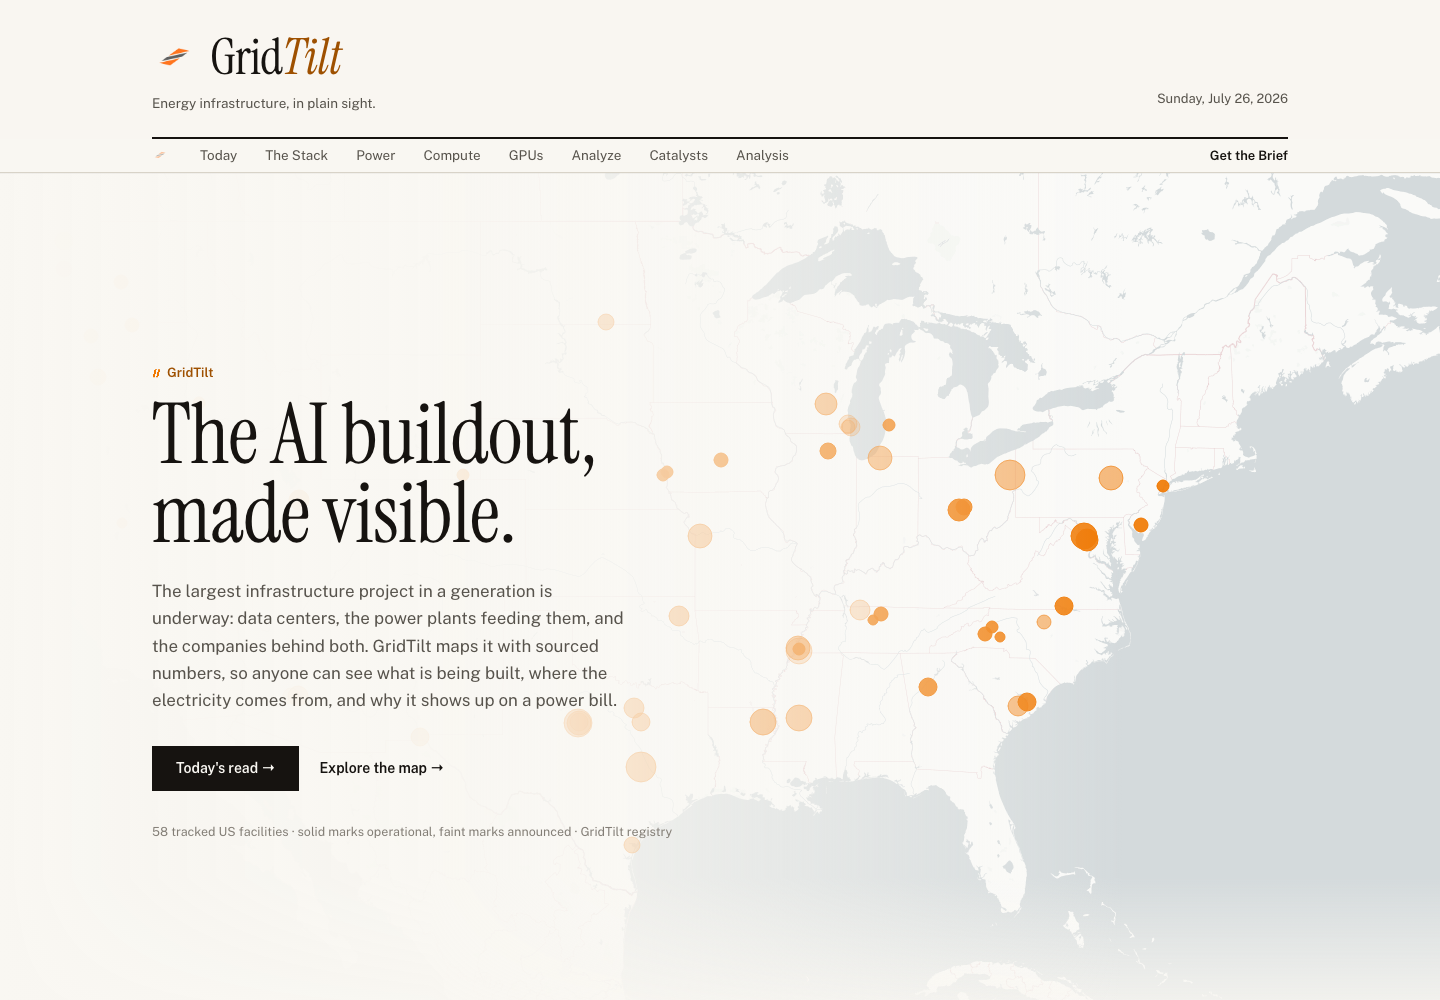
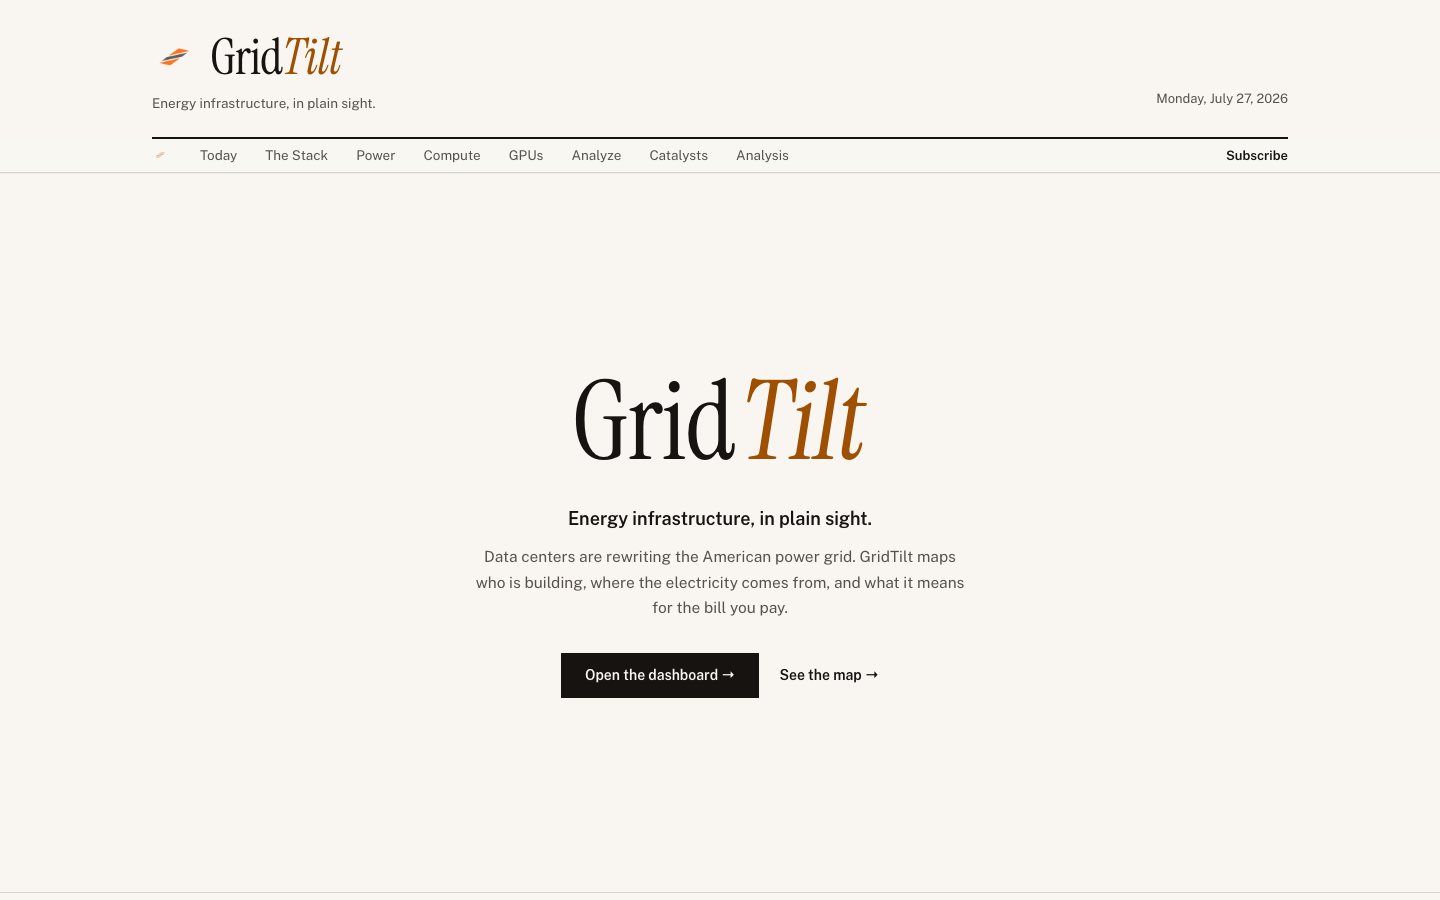
design: typed-wordmark intro returns; grid-first copy sweep
Landing is the classic intro again: GridTilt types out, Tilt tilts into
the orange, tagline and mission fade in - clean paper, no map backdrop.
Marquee copy repositions to power and grid (no AI-buildout framing on
landing, front page, masthead, colophon, subscribe, seo); newspaper
issue-speak removed (week-of kickers, Buildout Brief naming, wire-feed
asides). Brief page title is now The Brief; server brief headline drops
the AI prefix.

diff --git a/client/src/components/home/landing-hero.tsx b/client/src/components/home/landing-hero.tsx
@@ -1,119 +1,115 @@
 /**
- * The landing hero: the mission over the real buildout. A quiet live map of
- * every tracked facility is the backdrop; the statement sits on top. No
- * feature narration, just the why and two doors in.
+ * The intro: GridTilt types itself out, then the Tilt half tilts and takes
+ * the orange. Clean paper, one line of grid-first mission copy, two doors.
+ * The dashboard front page continues below.
  */
-import { useQuery } from "@tanstack/react-query";
+import { useEffect, useState } from "react";
 import { Link } from "wouter";
-import { MapContainer, TileLayer, CircleMarker } from "react-leaflet";
-import "leaflet/dist/leaflet.css";
 
-interface HeroFacility {
-  id: number;
-  lat: number;
-  lng: number;
-  powerMW: number | null;
-  status: string;
-}
-
-const STATUS_OPACITY: Record<string, number> = {
-  operational: 0.9,
-  construction: 0.5,
-  announced: 0.25,
-};
+const TEXT = "GridTilt";
+const SPLIT = 4; // "Grid" | "Tilt"
+const STEP_MS = 95;
+const FIRST_DELAY_MS = 260;
+const TILT_DELAY_MS = 300;
+const CARET_FADE_DELAY_MS = 600;
 
 export function LandingHero() {
-  const { data: facilities } = useQuery<HeroFacility[]>({ queryKey: ["/api/datacenters"] });
+  const [count, setCount] = useState(0);
+  const [tilted, setTilted] = useState(false);
+  const [caretFading, setCaretFading] = useState(false);
+
+  useEffect(() => {
+    const reduceMotion =
+      typeof window !== "undefined" &&
+      window.matchMedia?.("(prefers-reduced-motion: reduce)").matches;
+    if (reduceMotion) {
+      setCount(TEXT.length);
+      setTilted(true);
+      setCaretFading(true);
+      return;
+    }
+
+    let cancelled = false;
+    const startTyping = setTimeout(() => {
+      function tick(next: number) {
+        if (cancelled) return;
+        setCount(next);
+        if (next < TEXT.length) {
+          setTimeout(() => tick(next + 1), STEP_MS);
+        } else {
+          setTimeout(() => {
+            if (!cancelled) setTilted(true);
+          }, TILT_DELAY_MS);
+          setTimeout(() => {
+            if (!cancelled) setCaretFading(true);
+          }, TILT_DELAY_MS + CARET_FADE_DELAY_MS);
+        }
+      }
+      tick(1);
+    }, FIRST_DELAY_MS);
+
+    return () => {
+      cancelled = true;
+      clearTimeout(startTyping);
+    };
+  }, []);
+
+  const visibleGrid = TEXT.slice(0, Math.min(count, SPLIT));
+  const visibleTilt = TEXT.slice(SPLIT, count);
 
   return (
     <section
-      className="relative h-[86vh] min-h-[540px] max-h-[900px] w-full overflow-hidden border-b border-rule"
+      className="relative flex h-[80vh] min-h-[520px] max-h-[860px] w-full flex-col items-center justify-center overflow-hidden border-b border-rule px-5 text-center"
       data-testid="landing-hero"
     >
-      {/* The buildout itself, as the backdrop. `isolate` contains Leaflet's
-          internal z-400 panes so the statement can sit above the map. */}
-      <div className="absolute inset-0 isolate z-0" aria-hidden>
-        <MapContainer
-          center={[36.8, -93.5]}
-          zoom={4.7}
-          zoomControl={false}
-          dragging={false}
-          scrollWheelZoom={false}
-          doubleClickZoom={false}
-          touchZoom={false}
-          keyboard={false}
-          attributionControl={false}
-          className="h-full w-full"
-          style={{ background: "var(--paper)" }}
+      <h1
+        className="font-serif text-[64px] leading-none tracking-[-0.01em] text-ink sm:text-[110px]"
+        aria-label="GridTilt"
+        data-testid="hero-wordmark"
+      >
+        <span>{visibleGrid}</span>
+        <span
+          className="inline-block origin-bottom transition-[transform,color] duration-500 ease-out"
+          style={{
+            transform: tilted ? "skewX(-9deg)" : "none",
+            color: tilted ? "var(--brand-ink)" : "var(--ink)",
+          }}
         >
-          <TileLayer url="https://{s}.basemaps.cartocdn.com/light_nolabels/{z}/{x}/{y}{r}.png" />
-          {facilities?.map((f) => (
-            <CircleMarker
-              key={f.id}
-              center={[f.lat, f.lng]}
-              radius={Math.max(4, Math.min(15, Math.sqrt(f.powerMW ?? 100) / 2.4))}
-              pathOptions={{
-                color: "#F07800",
-                weight: 1,
-                fillColor: "#F07800",
-                fillOpacity: STATUS_OPACITY[f.status] ?? 0.3,
-                opacity: (STATUS_OPACITY[f.status] ?? 0.3) + 0.1,
-              }}
-            />
-          ))}
-        </MapContainer>
-      </div>
+          {visibleTilt}
+        </span>
+        <span
+          aria-hidden
+          className="ml-1 inline-block w-[0.06em] -translate-y-[0.06em] select-none bg-brand align-baseline transition-opacity duration-700"
+          style={{ height: "0.72em", opacity: caretFading ? 0 : 1 }}
+        />
+      </h1>
 
-      {/* Legibility wash: paper on the reading side, fading over the map */}
       <div
-        className="pointer-events-none absolute inset-0"
-        style={{
-          background:
-            "linear-gradient(90deg, var(--paper) 0%, rgba(249,247,242,0.94) 30%, rgba(249,247,242,0.55) 52%, rgba(249,247,242,0) 78%), linear-gradient(0deg, var(--paper) 0%, rgba(249,247,242,0) 18%)",
-        }}
-        aria-hidden
-      />
-
-      {/* The statement */}
-      <div className="relative z-10 mx-auto flex h-full max-w-[1200px] flex-col justify-center px-5 sm:px-8">
-        <div className="max-w-[620px]">
-          <p className="mb-3 flex items-center gap-1.5 text-[13px] font-semibold text-brand-ink">
-            <span className="tilt-glyph" aria-hidden />
-            GridTilt
-          </p>
-          <h1 className="font-serif text-[52px] leading-[0.95] tracking-[-0.01em] text-ink sm:text-[84px]">
-            The AI buildout,
-            <br />
-            made visible.
-          </h1>
-          <p className="mt-6 max-w-[46ch] text-[16px] leading-[1.6] text-ink-secondary sm:text-[17px]">
-            The largest infrastructure project in a generation is underway: data centers, the
-            power plants feeding them, and the companies behind both. GridTilt maps it with
-            sourced numbers, so anyone can see what is being built, where the electricity comes
-            from, and why it shows up on a power bill.
-          </p>
-          <div className="mt-8 flex flex-wrap items-center gap-5">
-            <Link
-              href="/overview"
-              className="bg-ink px-6 py-3 text-[14px] font-semibold text-paper no-underline transition-colors hover:bg-brand-ink"
-              data-testid="hero-cta-today"
-            >
-              Today's read →
-            </Link>
-            <Link
-              href="/power-map"
-              className="text-[14px] font-semibold text-ink no-underline hover:text-brand-ink"
-              data-testid="hero-cta-map"
-            >
-              Explore the map →
-            </Link>
-          </div>
-          {facilities && (
-            <p className="mt-8 text-[12.5px] text-ink-muted">
-              {facilities.length} tracked US facilities · solid marks operational, faint marks
-              announced · GridTilt registry
-            </p>
-          )}
+        className="mt-7 transition-opacity duration-700"
+        style={{ opacity: tilted ? 1 : 0 }}
+      >
+        <p className="text-[16px] font-semibold text-ink sm:text-[18px]">
+          Energy infrastructure, in plain sight.
+        </p>
+        <p className="mx-auto mt-3 max-w-[52ch] text-[14.5px] leading-[1.65] text-ink-secondary sm:text-[15.5px]">
+          Data centers are rewriting the American power grid. GridTilt maps who is building,
+          where the electricity comes from, and what it means for the bill you pay.
+        </p>
+        <div className="mt-8 flex flex-wrap items-center justify-center gap-5">
+          <Link
+            href="/overview"
+            className="bg-ink px-6 py-3 text-[14px] font-semibold text-paper no-underline transition-colors hover:bg-brand-ink"
+            data-testid="hero-cta-today"
+          >
+            Open the dashboard →
+          </Link>
+          <Link
+            href="/power-map"
+            className="text-[14px] font-semibold text-ink no-underline hover:text-brand-ink"
+            data-testid="hero-cta-map"
+          >
+            See the map →
+          </Link>
         </div>
       </div>
     </section>

diff --git a/client/src/components/home/front-page.tsx b/client/src/components/home/front-page.tsx
@@ -152,12 +152,7 @@ export function FrontPage() {
         <article data-testid="front-lead">
           <p className="mb-2.5 flex items-center gap-1.5 text-[13px] font-semibold text-brand-ink">
             <span className="tilt-glyph" aria-hidden />
-            The Buildout Brief
-            {brief && (
-              <span className="font-normal text-ink-muted">
-                {" "}· week of {fmtArticleDate(brief.asOf)}
-              </span>
-            )}
+            This week
           </p>
           {brief ? (
             <>
@@ -173,12 +168,12 @@ export function FrontPage() {
                   href="/blog"
                   className="text-[13.5px] font-semibold text-ink no-underline hover:text-brand-ink"
                 >
-                  Read this week's full Brief →
+                  Full brief →
                 </Link>
               </p>
             </>
           ) : (
-            <p className="font-serif text-[17px] text-ink-muted">Loading this week's Brief…</p>
+            <p className="font-serif text-[17px] text-ink-muted">Loading…</p>
           )}
         </article>
 
@@ -269,9 +264,8 @@ export function FrontPage() {
       {/* Headlines + analysis */}
       <div className="grid gap-8 lg:grid-cols-[1fr_1.4fr]">
         <RuleSection
-          head="Latest headlines"
-          aside={<span>industry wires</span>}
-          testId="front-headlines"
+          head="Headlines"
+                    testId="front-headlines"
         >
           {news && news.length > 0 ? (
             <ul>
@@ -297,7 +291,7 @@ export function FrontPage() {
         </RuleSection>
 
         <RuleSection
-          head="Latest analysis"
+          head="Analysis"
           aside={
             <Link href="/blog" className="text-ink no-underline hover:text-brand-ink">
               All articles →
@@ -359,7 +353,7 @@ export function FrontPage() {
         <div className="flex flex-wrap items-baseline justify-between gap-x-8 gap-y-3">
           <div className="max-w-[52ch]">
             <p className="font-serif font-medium text-[22px] leading-snug text-ink">
-              The Buildout Brief, weekly.
+              The weekly brief.
             </p>
           </div>
           <Link

diff --git a/server/seo.ts b/server/seo.ts
@@ -15,8 +15,8 @@ const BASE_URL = "https://gridtilt.com";
 
 const STATIC_PAGES: Record<string, { title: string; description: string; slug: string }> = {
   "/": {
-    title: "GridTilt | The AI Buildout, In Plain Sight",
-    description: "A research publication tracking the AI infrastructure buildout: data centers, power, compute, and the public companies behind them. Sourced numbers, plain language, no terminal required.",
+    title: "GridTilt | Energy Infrastructure, In Plain Sight",
+    description: "Tracking the American power grid as data centers rewrite it: generation, transmission, buildout, and the public companies behind them. Sourced numbers, plain language.",
     slug: "",
   },
   "/overview": {
@@ -70,8 +70,8 @@ const STATIC_PAGES: Record<string, { title: string; description: string; slug: s
     slug: "neocloud-intel",
   },
   "/subscribe": {
-    title: "The Buildout Brief - Weekly AI Power Email - GridTilt",
-    description: "One email a week on the AI buildout: power, compute, and the companies behind both. Sourced numbers, no hype.",
+    title: "The GridTilt Brief - Weekly Power and Grid Email",
+    description: "One email a week on the grid: power, data centers, and the companies behind both. Sourced numbers, no hype.",
     slug: "subscribe",
   },
 };

diff --git a/client/src/components/colophon.tsx b/client/src/components/colophon.tsx
@@ -15,7 +15,7 @@ export function Colophon() {
               Grid<em className="italic text-brand-ink">Tilt</em>
             </p>
             <p className="mt-2 text-[13px] leading-relaxed text-ink-secondary">
-              Tracking the AI infrastructure buildout.
+              Power, infrastructure, and the companies behind them.
             </p>
           </div>
           <div>
@@ -30,7 +30,7 @@ export function Colophon() {
           <div>
             <p className="text-[12px] font-semibold text-ink mb-2.5">Follow</p>
             <ul className="space-y-1.5 text-[13px]">
-              <li><Link href="/subscribe" className="text-ink-secondary hover:text-brand-ink no-underline">The Buildout Brief</Link></li>
+              <li><Link href="/subscribe" className="text-ink-secondary hover:text-brand-ink no-underline">The weekly brief</Link></li>
               <li>
                 <a
                   href="https://x.com/gridtilt"

diff --git a/client/src/components/masthead.tsx b/client/src/components/masthead.tsx
@@ -112,7 +112,7 @@ export function Masthead() {
               className="hidden md:flex items-center shrink-0 py-2.5 text-[13px] font-semibold leading-none no-underline text-ink hover:text-brand-ink transition-colors duration-fast"
               data-testid="masthead-nav-subscribe"
             >
-              Get the Brief
+              Subscribe
             </Link>
           </div>
         </div>

diff --git a/client/src/pages/Subscribe.tsx b/client/src/pages/Subscribe.tsx
@@ -39,8 +39,8 @@ export default function Subscribe() {
     <PageShell>
       <div className="max-w-xl mx-auto" data-testid="subscribe-page">
         <PageTitle
-          title="The Buildout Brief"
-          dek="One email a week on the AI buildout."
+          title="The Brief"
+          dek="One email a week on the grid."
         />
 
         {status === "success" ? (

diff --git a/server/brief.ts b/server/brief.ts
@@ -110,7 +110,7 @@ export function composeBrief(input: BriefInput): Brief {
     `while ${d.topBuyer ?? "hyperscalers"} and peers lock in their own power.`;
 
   return {
-    title: `The AI Buildout, week of ${input.asOf}`,
+    title: `The Buildout, week of ${input.asOf}`,
     asOf: input.asOf,
     summary,
     sections: [compute, gpu, grid, deals],

diff --git a/client/src/pages/brief.tsx b/client/src/pages/brief.tsx
@@ -151,7 +151,7 @@ export default function BriefPage({ embedded = false }: { embedded?: boolean; pa
     <PageShell>
       <div className="max-w-3xl mx-auto">
         <PageTitle
-          title="The Buildout Brief"
+          title="The Brief"
           right={copyButton}
           testId="brief-header"
         />
